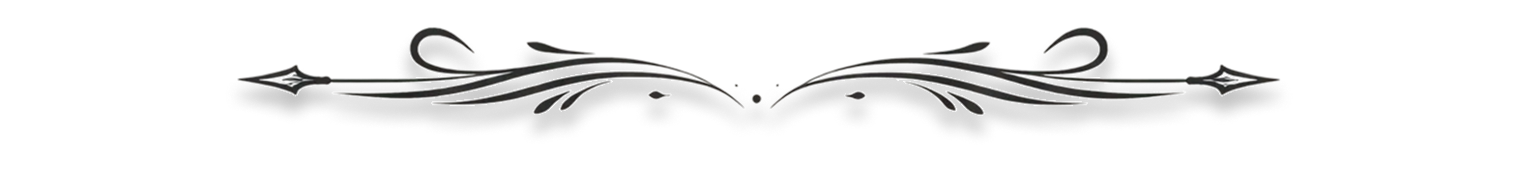
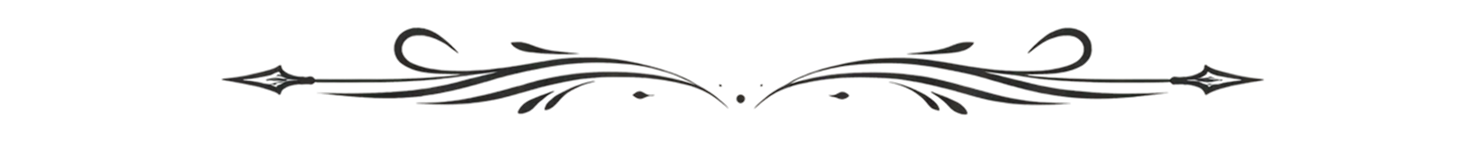
fix: updated few sections fixed padding

Changed region(s): [[0.155, 0.122, 0.8679, 0.7012]]

diff --git a/src/components/WhyApplySection/WhyApplySection.tsx b/src/components/WhyApplySection/WhyApplySection.tsx
@@ -30,18 +30,18 @@ const WhyApplySection = () => {
     return (
         <Box 
             bg="#FEF8F3"
-            pt={{ base: "160px", md: "200px" }}
-            pb={{ base: "60px", md: "80px", lg: "100px" }}
+            pt={{ base: "130px", md: "155px" }}
+            pb={{ base: "50px", md: "55px", lg: "65px" }}
             px={{ base: "20px", md: "40px", lg: "60px" }}
             id="who-should-apply"
-            mt={{ base: "-100px", md: "-130px" }}
+            mt={{ base: "-90px", md: "-105px" }}
         >
             <Container maxW="1200px">
-                <VStack spacing={{ base: 10, md: 12, lg: 14 }} align="center">
+                <VStack spacing={{ base: 6, md: 6 }} align="center">
                     <Image
                         src="/assets/common/section-divider.png"
                         alt="Section divider"
-                        w={{ base: "300px", sm: "400px", md: "400px", lg: "500px" }}
+                        w={{ base: "280px", sm: "350px", md: "360px", lg: "420px" }}
                         h="auto"
                     />
 

diff --git a/src/components/WhyJoinSection/WhyJoinSection.tsx b/src/components/WhyJoinSection/WhyJoinSection.tsx
@@ -7,18 +7,18 @@ const WhyJoinSection = () => {
     return (
         <Box 
             bg="#FEF8F3"
-            pt={{ base: "160px", md: "200px" }}
-            pb={{ base: "60px", md: "80px", lg: "100px" }}
+            pt={{ base: "130px", md: "155px" }}
+            pb={{ base: "50px", md: "55px", lg: "65px" }}
             px={{ base: "20px", md: "40px" }}
             id="why-join"
-            mt={{ base: "-100px", md: "-130px" }}
+            mt={{ base: "-90px", md: "-105px" }}
         >
             <Container maxW="1200px">
                 <VStack spacing={{ base: 6, md: 6 }} align="center">
                     <Image
                         src="/assets/common/section-divider.png"
                         alt="Section divider"
-                        w={{ base: "300px", sm: "400px", md: "400px", lg: "500px" }}
+                        w={{ base: "280px", sm: "350px", md: "360px", lg: "420px" }}
                         h="auto"
                     />
 

diff --git a/src/components/ApplicationSection/ApplicationSection.tsx b/src/components/ApplicationSection/ApplicationSection.tsx
@@ -24,11 +24,11 @@ const ApplicationSection = () => {
     return (
         <Box 
             bg="#FEF8F3"
-            pt={{ base: "160px", md: "200px" }}
-            pb={{ base: "60px", md: "80px", lg: "100px" }}
+            pt={{ base: "130px", md: "155px" }}
+            pb={{ base: "50px", md: "55px", lg: "65px" }}
             px={{ base: "20px", md: "40px", lg: "60px" }}
             id="apply"
-            mt={{ base: "-100px", md: "-130px" }}
+            mt={{ base: "-90px", md: "-105px" }}
         >
             <Container maxW="1200px">
                 <VStack spacing={{ base: 10, md: 12, lg: 14 }} align="center">

diff --git a/src/components/HeroSection/HeroSection.tsx b/src/components/HeroSection/HeroSection.tsx
@@ -7,8 +7,8 @@ const HeroSection = () => {
     return (
         <Box 
             bg="#FEF8F3"
-            pt={{ base: "140px", md: "180px" }}
-            pb={{ base: "60px", md: "80px", lg: "100px" }}
+            pt={{ base: "130px", md: "175px" }}
+            pb={{ base: "50px", md: "40px", lg: "45px" }}
             px={{ base: "20px", md: "40px", lg: "60px" }}
         >
             <Container maxW="1400px">

diff --git a/src/components/Footer/Footer.tsx b/src/components/Footer/Footer.tsx
@@ -10,7 +10,7 @@ const Footer = () => {
             bg="#FEF8F3"
             borderTop="1px solid"
             borderColor="rgba(0,0,0,0.1)"
-            py={{ base: "60px", md: "80px" }}
+            py={{ base: "50px", md: "55px", lg: "65px" }}
             px={{ base: "20px", md: "40px" }}
         >
             <Container maxW="600px">

diff --git a/src/components/DisclaimersSection/DisclaimersSection.tsx b/src/components/DisclaimersSection/DisclaimersSection.tsx
@@ -13,7 +13,7 @@ const DisclaimersSection = () => {
     return (
         <Box 
             bg="#FEF8F3"
-            py={{ base: "60px", md: "80px", lg: "100px" }}
+            py={{ base: "50px", md: "55px", lg: "65px" }}
             px={{ base: "20px", md: "40px", lg: "60px" }}
         >
             <Container maxW="1200px">

diff --git a/src/components/GatherSection/GatherSection.tsx b/src/components/GatherSection/GatherSection.tsx
@@ -26,7 +26,7 @@ const GatherSection = () => {
     return (
         <Box 
             bg="#FEF8F3"
-            py={{ base: "60px", md: "80px", lg: "100px" }}
+            py={{ base: "50px", md: "55px", lg: "65px" }}
             px={{ base: "20px", md: "40px", lg: "60px" }}
         >
             <Container maxW="1200px">
